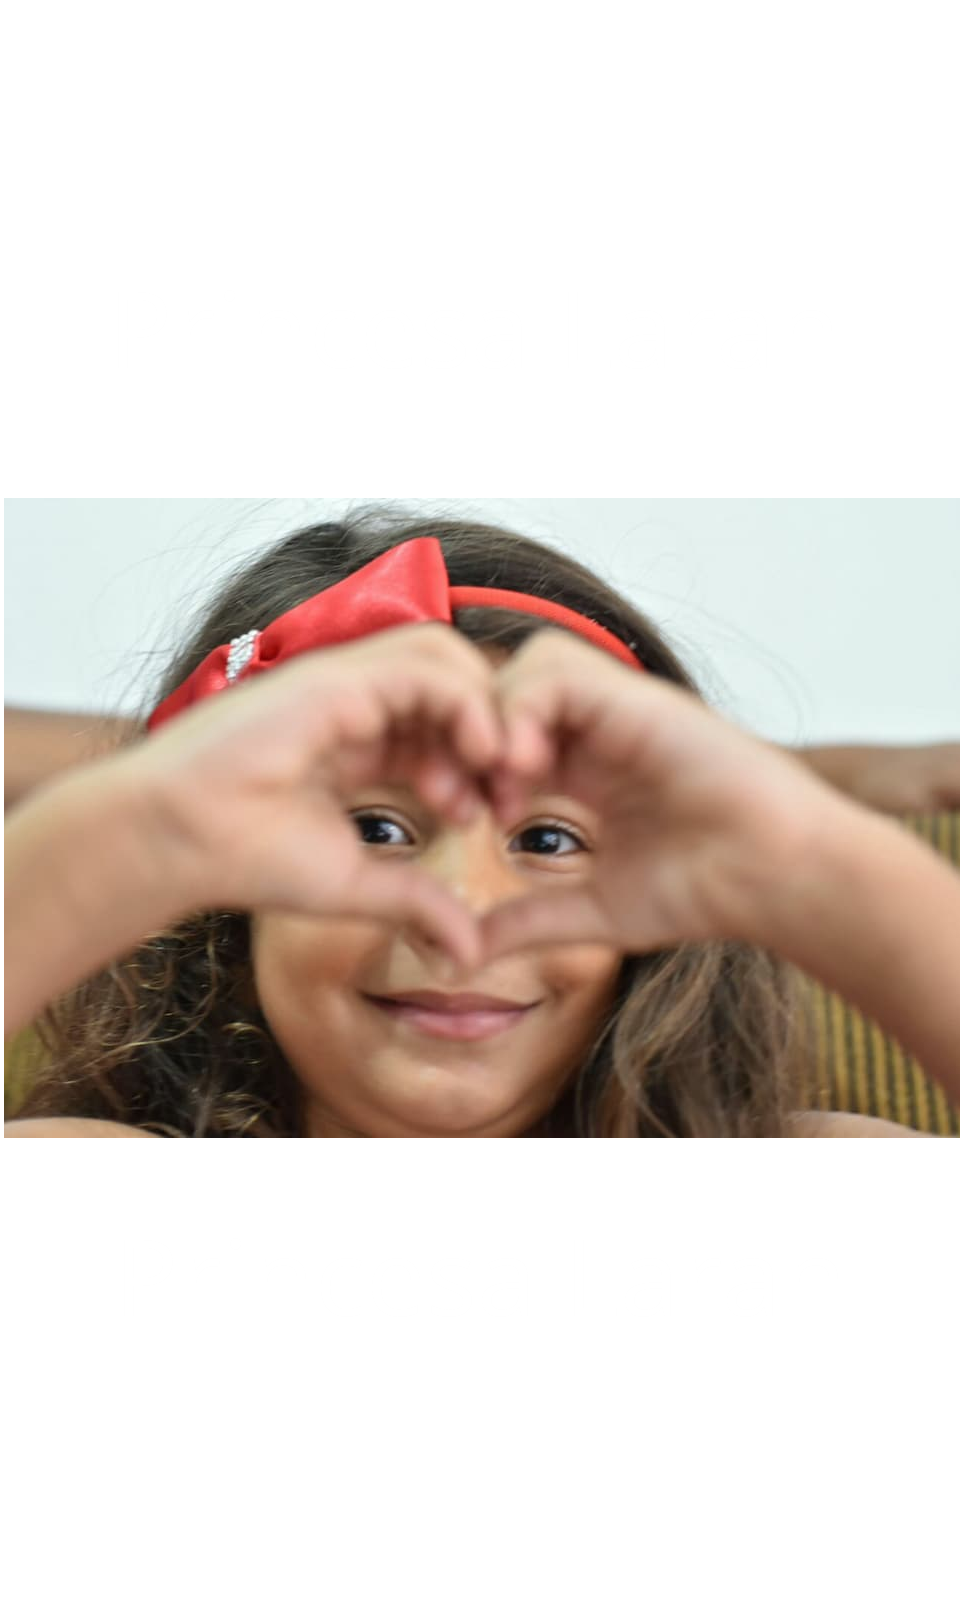
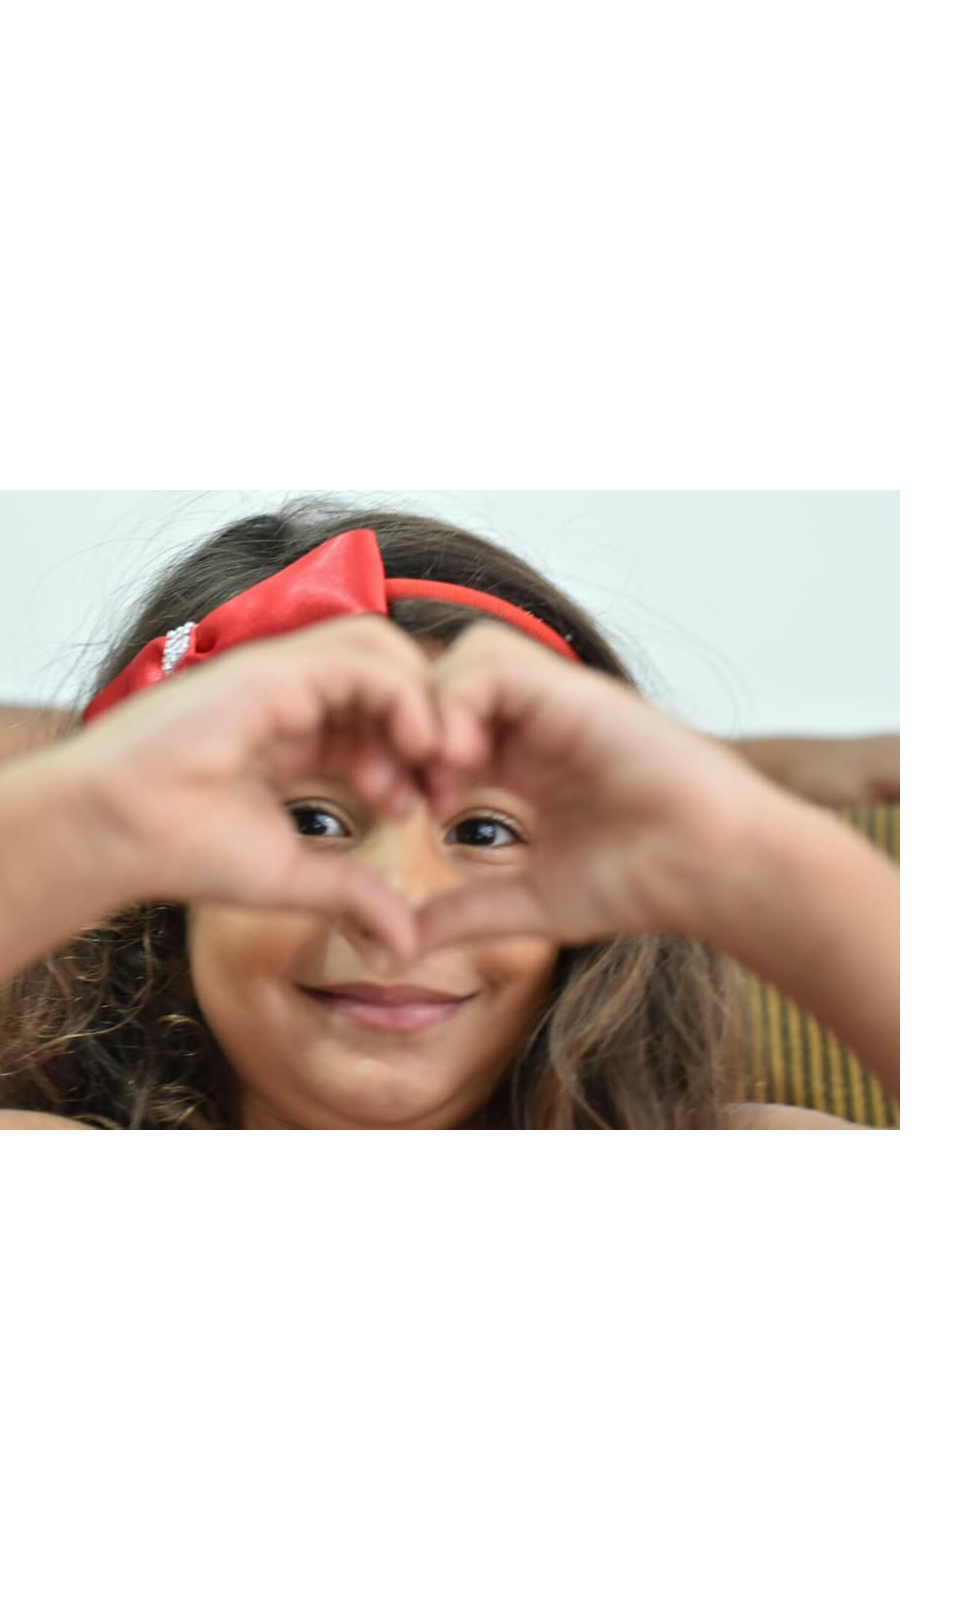
procurando o erro

Changed region(s): [[0.0, 0.2812, 1.0, 0.7188]]

diff --git a/index.html b/index.html
@@ -4,7 +4,7 @@
     <meta charset="UTF-8">
     <meta name="viewport" content="width=device-width, initial-scale=1.0">
     <link rel="stylesheet" href="estilos/style.css">
-    <link rel="stylesheet" href="estilos/media-query.css">
+ 
     <link rel="stylesheet" href="https://fonts.googleapis.com/css2?family=Material+Symbols+Outlined:opsz,wght,FILL,GRAD@20..48,100..700,0..1,-50..200" />
     <title>Larah Dias de Souza Ilves de Oliveira</title>
 </head>
@@ -29,11 +29,8 @@
                     </ul>
         </menu>
     </header>
-    <article>
-       
-    </article>
     <main>
-        <section class="normal">
+      <section class="normal">
             <p>Larah, minha jóia preciosa e querida,
                 Em teus olhos, a luz da vida é resplandecida.
                 Dias de alegria contigo são abençoados,
@@ -59,12 +56,12 @@
                     Larah, és a estrela que brilha com fulgor,
                     Neste laço de pai e filha, és meu maior amor.
                 </p>
-        </section>
+        </section><!--
         <section class="imagem" id="img03"></section>
         
         <section class="imagem" id="img01">
             
-        </section>
+        </section>-->
         <section class="normal">
             <p>
                 No jardim da vida, Larah, és a flor mais bela,
@@ -94,10 +91,10 @@
                 Com amor, Ilves, és meu tesouro mais amado.
             </p>
 
-        </section>
+        </section><!--
         <section class="imagem" id="img02">
 
-        </section>
+        </section>-->
 
     </main>
     <footer>

diff --git a/estilos/style.css b/estilos/style.css
@@ -20,9 +20,11 @@
 }
 body {
     background-color: var(--cor02);
-    background-image: url(../imagens/10.png);
+   /* background-image: url(../imagens/10.png);
     background-size: 100vw;
     background-position: top;
+    background-repeat: repeat-y;*/
+    
       
 }
 header {
@@ -77,8 +79,6 @@ menu > ul > li > a:hover {
     color: var(--cor01);
 }
 section.imagem {
-
-    /*box-shadow: inset 6px 6px 13px 0px rgba(0, 0, 0, 0.445);*/
     background-size: cover;
     background-attachment: fixed;
     display: block;
@@ -88,14 +88,19 @@ section.imagem {
 
 
 section > p {
+    display: block;
     padding: 20px;
     background-color: var(--cor02);
     color: white;
+    max-width: 100vw;
     text-align: justify;
+    margin-right: 0px;
+    
 }
 section#img03 {
     background-image: url(../imagens/4anos/5.jpg);
     background-size: 100vw;
+    padding: 0px;
     background-repeat: no-repeat;
     display: block;
     background-position: left top;
